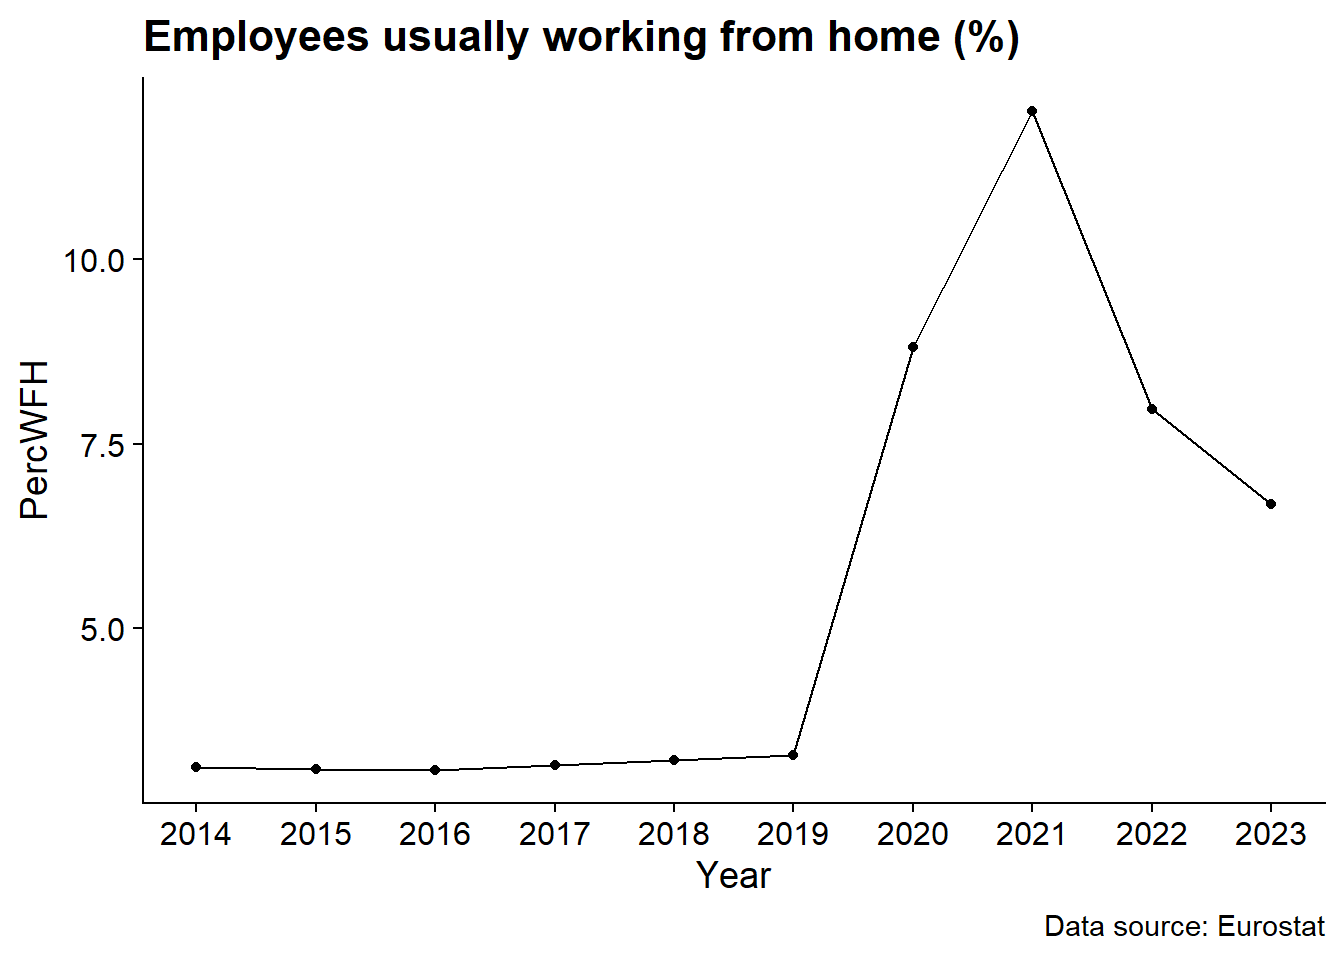
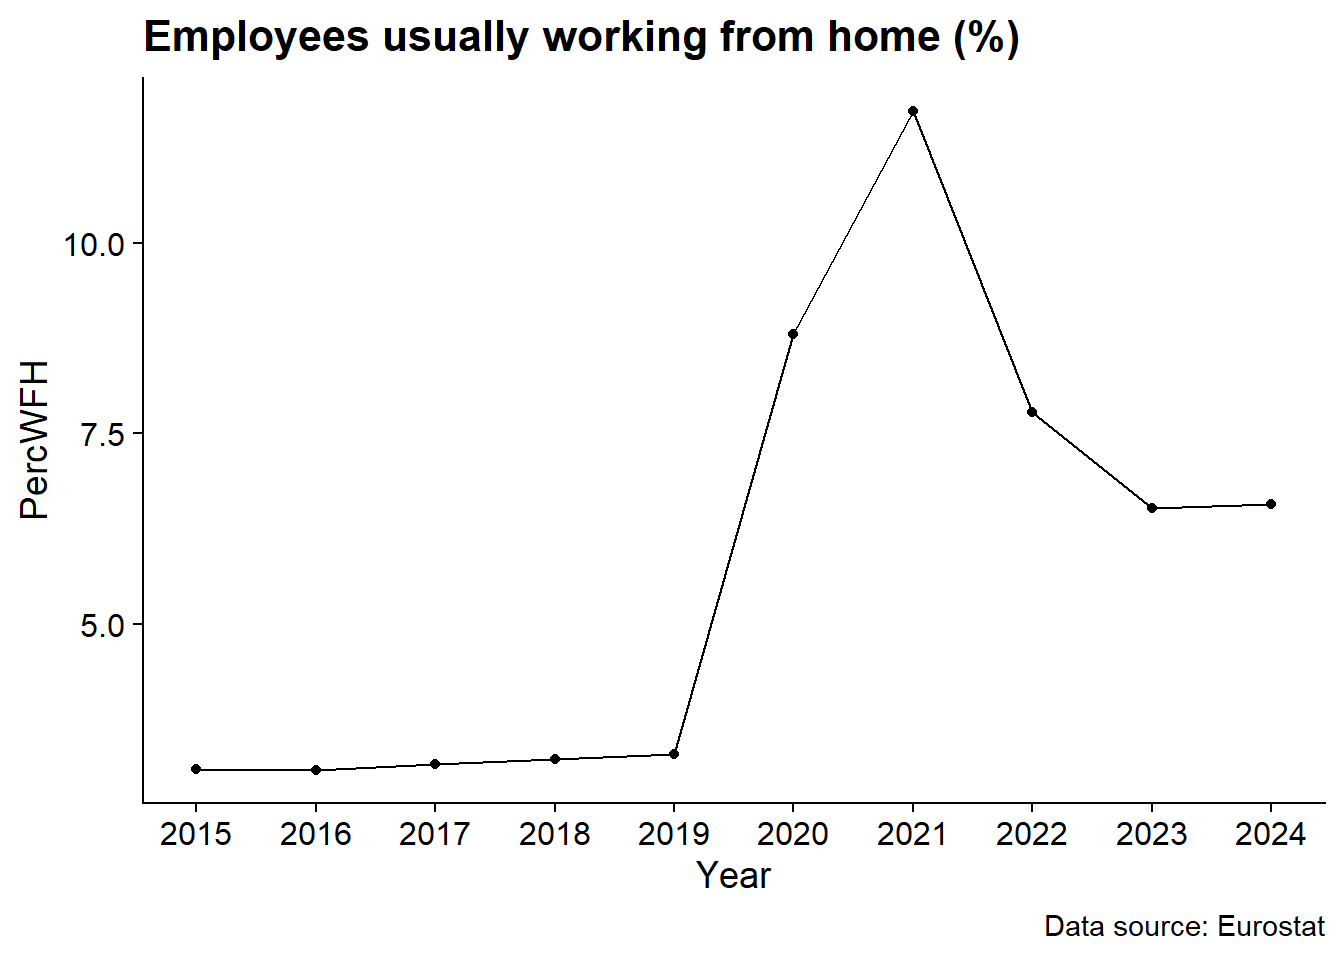
ddd

diff --git a/content/post/2024-05-03-work-from-home/index.md b/content/post/2024-05-03-work-from-home/index.md
@@ -15,7 +15,7 @@ A picture of the diffusion of the working from home modality during and 'after' 
 
 A clear huge revolution in the work organisation, which can not be dismissed as a temporary measure to overcome the Covid-19 pandemic.
 
-A simple measure gives count of the phenomenon. The average percent of workers (employees) that usually work from home in the following years: 2019, 3.28%; 2020, 8.81%; 2021, 12.01%; 2022, 7.96%; 2023, 6.68%.
+A simple measure gives count of the phenomenon. The average percent of workers (employees) that usually work from home in the following years: 2019, 3.28%; 2020, 8.81%; 2021, 11.74%; 2022, 7.78%; 2023, 6.52%; 2024, 6.58%.
 
 Moreover, as we can appreciate, the dynamic of the percentage of employees usually working from home (PercWFH) was rather flat in the past thirty years, with a peak in the last two.
 
